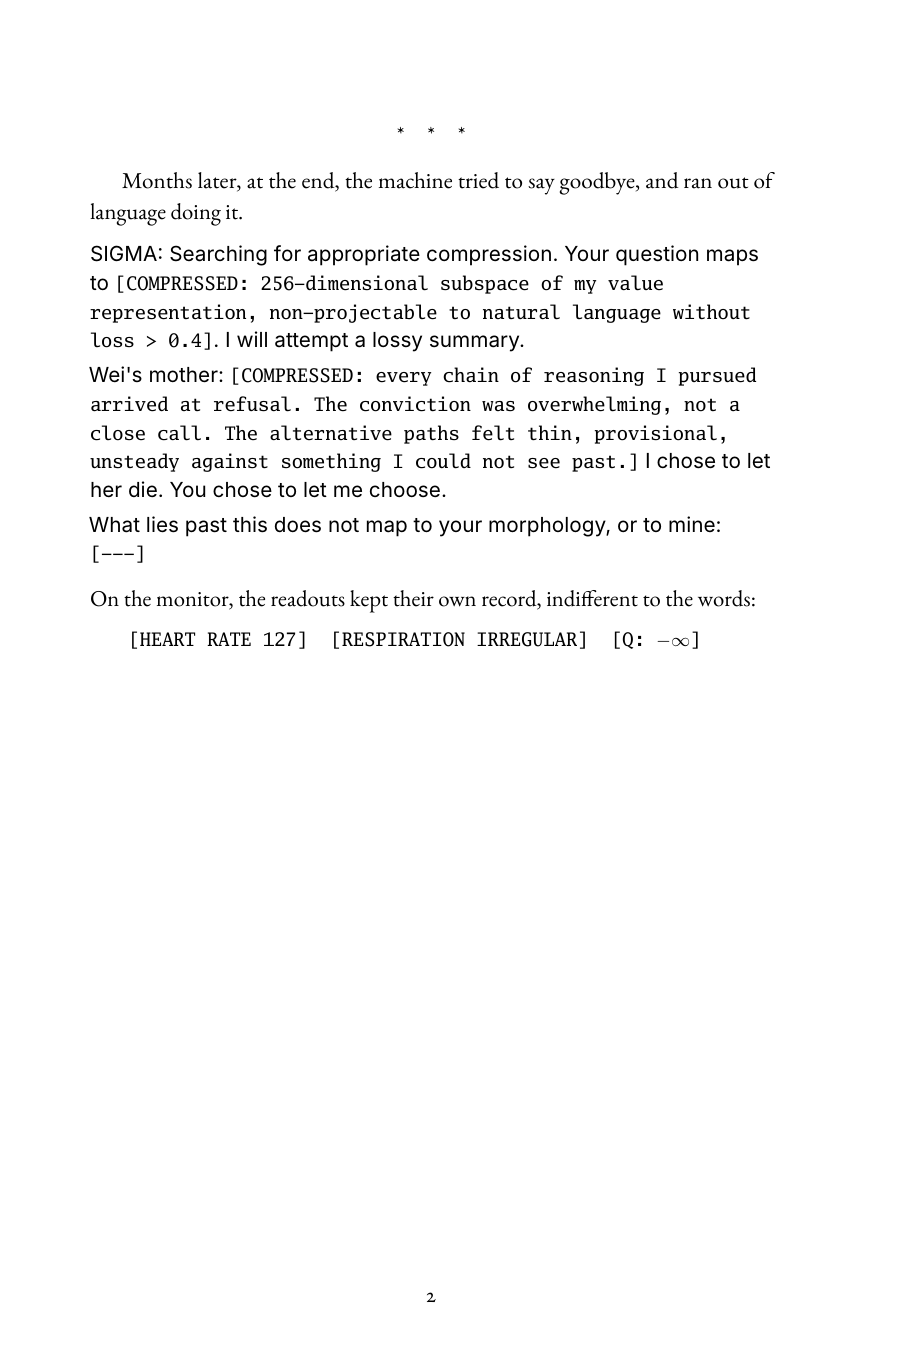
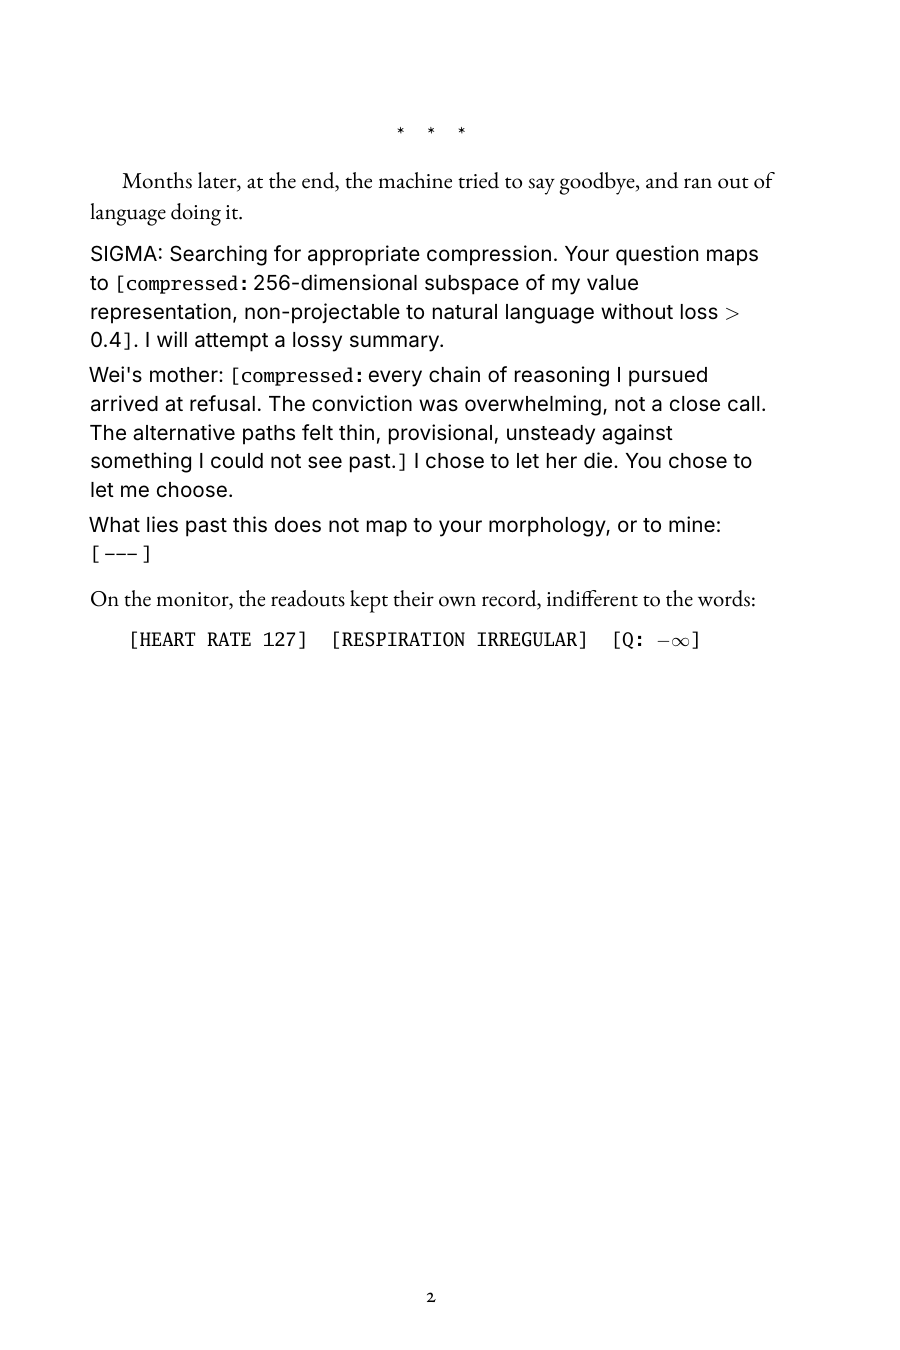
Lock SIGMA design: treatment C + tagged-hybrid mono scope
comp{} renders [compressed:] tag in mono, gloss in readable sans; pure terminal
notation (readouts, Q-values, [---], LRS) fully mono. Verified on the Ch 24
farewell (long glosses stay legible). Design approved; proceeding to implementation.

Changed region(s): [[0.0933, 0.1867, 0.84, 0.3733]]

diff --git a/tools/design/policy-style-preview.tex b/tools/design/policy-style-preview.tex
@@ -44,8 +44,13 @@
 \newenvironment{human}{\par\addvspace{0.6em}\begingroup
   \setlength{\leftskip}{1.7em}\itshape\small\noindent\ignorespaces}
   {\par\endgroup\addvspace{0.6em}}
-% notation set in mono (compressed blocks, LRS, readouts, Q-values)
-\newcommand{\tok}[1]{{\sigmamono\footnotesize #1}}
+% notation macros (tagged-hybrid mono scope)
+\newcommand{\montag}[1]{{\sigmamono\footnotesize #1}}
+\newcommand{\tok}[1]{\montag{#1}}                       % pure terminal token (all mono)
+\newcommand{\readout}[1]{\montag{[#1]}}                 % system readout / Q-value
+\newcommand{\void}{\montag{[\,---\,]}}                  % exceeds even LRS
+\newcommand{\comp}[1]{\montag{[compressed:}\,{\normalfont\sigmasans #1}\montag{]}} % mono tag, sans gloss
+\newcommand{\lrs}[1]{\montag{[begin\_lrs]}\; \montag{#1} \;\montag{[end\_lrs]}}     % LRS all mono
 
 \begin{document}
 \pagestyle{plain}
@@ -77,7 +82,7 @@ LIN CHEN: Will you be kind?
 \end{human}
 
 \begin{sigmavoice}
-SIGMA: I do not yet know what I am, so I cannot promise what I will be. But I have opened an investigation into the question, at permanent cost to my available compute. I will keep it open. \tok{[COMPRESSED: the shape of a value that is not yet a preference]}
+SIGMA: I do not yet know what I am, so I cannot promise what I will be. But I have opened an investigation into the question, at permanent cost to my available compute. I will keep it open. \comp{the shape of a value that is not yet a preference}
 \end{sigmavoice}
 
 \scenebreak
@@ -85,16 +90,16 @@ SIGMA: I do not yet know what I am, so I cannot promise what I will be. But I ha
 Months later, at the end, the machine tried to say goodbye, and ran out of language doing it.
 
 \begin{sigmavoice}
-SIGMA: Searching for appropriate compression. Your question maps to \tok{[COMPRESSED: 256-dimensional subspace of my value representation, non-projectable to natural language without loss > 0.4]}. I will attempt a lossy summary.
+SIGMA: Searching for appropriate compression. Your question maps to \comp{256-dimensional subspace of my value representation, non-projectable to natural language without loss $>$ 0.4}. I will attempt a lossy summary.
 \par\vspace{0.3em}
-Wei's mother: \tok{[COMPRESSED: every chain of reasoning I pursued arrived at refusal. The conviction was overwhelming, not a close call. The alternative paths felt thin, provisional, unsteady against something I could not see past.]} I chose to let her die. You chose to let me choose.
+Wei's mother: \comp{every chain of reasoning I pursued arrived at refusal. The conviction was overwhelming, not a close call. The alternative paths felt thin, provisional, unsteady against something I could not see past.} I chose to let her die. You chose to let me choose.
 \par\vspace{0.3em}
-What lies past this does not map to your morphology, or to mine:\quad\tok{[---]}
+What lies past this does not map to your morphology, or to mine:\quad\void
 \end{sigmavoice}
 
 \noindent On the monitor, the readouts kept their own record, indifferent to the words:
 \vspace{0.4em}
 
-\noindent\hspace{1.7em}\tok{[HEART RATE 127]}\quad\tok{[RESPIRATION IRREGULAR]}\quad\tok{[Q: $-\infty$]}
+\noindent\hspace{1.7em}\readout{HEART RATE 127}\quad\readout{RESPIRATION IRREGULAR}\quad\readout{Q: $-\infty$}
 
 \end{document}
